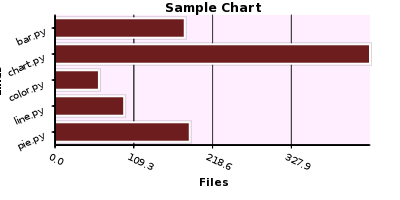
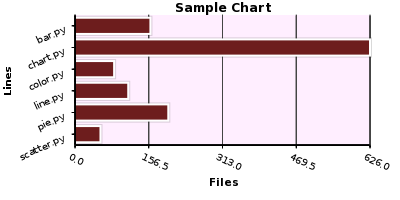
Update examples

diff --git a/examples/test.py b/examples/test.py
@@ -52,10 +52,10 @@ def testBar():
 
     dataSet = (
         ('myFirstDataset', [[0, 1], [1, 1], [2, 1.414], [3, 1.73]]),
-	('mySecondDataset', [[0, 0.3], [1, 2.67], [2, 1.34], [3, 1.73]]),
-	('myThirdDataset', [[0, 0.46], [1, 1.45], [2, 2.5], [3, 1.2]]),
-	('myFourthDataset', [[0, 0.86], [1, 0.83], [2, 3], [3, 1.73]]),
-        )
+        ('mySecondDataset', [[0, 0.3], [1, 2.67], [2, 1.34], [3, 1.73]]),
+        ('myThirdDataset', [[0, 0.46], [1, 1.45], [2, 2.5], [3, 1.2]]),
+        ('myFourthDataset', [[0, 0.86], [1, 0.83], [2, 3], [3, 1.73]]),
+    )
 
     chart.addDataset(dataSet)
     chart.render()
@@ -69,10 +69,10 @@ def testLine():
 
     dataSet = (
         ('myFirstDataset', [[0, 3], [1, 2], [2, 1.414], [3, 2.3]]),
-	('mySecondDataset', [[0, 1.4], [1, 2.67], [2, 1.34], [3, 1.2]]),
-	('myThirdDataset', [[0, 0.46], [1, 1.45], [2, 1.0], [3, 1.6]]),
-	('myFourthDataset', [[0, 0.3], [1, 0.83], [2, 0.7], [3, 0.2]]),
-        )
+        ('mySecondDataset', [[0, 1.4], [1, 2.67], [2, 1.34], [3, 1.2]]),
+        ('myThirdDataset', [[0, 0.46], [1, 1.45], [2, 1.0], [3, 1.6]]),
+        ('myFourthDataset', [[0, 0.3], [1, 0.83], [2, 0.7], [3, 0.2]]),
+    )
 
     chart.addDataset(dataSet)
     chart.render()

diff --git a/examples/lines.py b/examples/lines.py
@@ -18,9 +18,10 @@
 # common data for several examples
 
 lines = (
-    ('bar.py', 180),
-    ('chart.py', 437),
-    ('color.py', 61),
-    ('line.py', 96),
-    ('pie.py', 187),
+    ('bar.py', 160),
+    ('chart.py', 626),
+    ('color.py', 83),
+    ('line.py', 113),
+    ('pie.py', 198),
+    ('scatter.py', 54),
 )

diff --git a/examples/linechart.py b/examples/linechart.py
@@ -48,7 +48,8 @@ def lineChart(output):
             'hide': True,
         },
         'padding': {
-            'left': 55
+            'left': 55,
+            'bottom': 40,
         }
     }
     chart = pycha.line.LineChart(surface, options)

diff --git a/examples/barchart.py b/examples/barchart.py
@@ -53,7 +53,7 @@ def barChart(output, chartFactory):
             'hide': True,
         },
         'padding': {
-            'left': 55,
+            'left': 75,
             'bottom': 55,
         },
         'title': 'Sample Chart'
